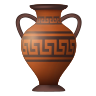
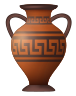
improved card layout; smaller font; more image

diff --git a/public/common.css b/public/common.css
@@ -9,125 +9,145 @@ body {
 
 .card {
 	width: 60mm;
-	line-height: 1.2;
+	line-height: 1.15;
 }
 
 .card .container {
+	position: relative;
 	width: 54mm;
-	height: 86mm;
-	margin: 2mm auto;
-	padding: 0mm 1mm;
+	height: 82mm;
+	margin: 3mm auto;
+	padding: 0mm;
 	border: 0.2mm solid white;
 	border-radius: 2mm;
 	background-image: url("media/background.jpg");
 	background-repeat: repeat;
 	background-size: 20mm 20mm;
-}
-
-.card.tag-spell .container {
-	background-image: url("media/spell.jpg");
-}
-
-.card.tag-item .container {
-	background-image: url("media/item.jpg");
-}
-
-.card .container div {
-	margin: 0.3mm auto;
-	padding: 1mm;
-	border: 0.3mm solid black;
-	background-color: rgba(250, 235, 215, 0.85);
 	overflow: hidden;
-}
-
-.card div.name {
-	height: 6.5mm;
-	border-radius: 5mm;
-	font-family: "Brush Script MT", cursive;
-	font-size: 4.5mm;
-	text-align: center;
-}
-
-.card.tag-artifact .tags {
-	background-color: rgba(250, 250, 250, 0.85);
 }
 
 .card div.picture {
-	height: 29mm;
-	padding: 0mm;
-	border-radius: 4mm;
-	background-color: rgba(0, 0, 0, 0.15);
-	overflow: hidden;
+	width: 54mm;
+	height: 54mm;
 }
 
 .card div.picture img {
 	width: 100%;
 	height: 100%;
 	object-fit: cover;
+	border-radius: 2mm;
 }
 
-.card div.tags {
-	border-radius: 2mm;
-	font-family: Georgia, serif;
-	font-size: 3.5mm;
-	text-align: right;
+.card div.name {
+	position: absolute;
+	top: 2mm;
+	right: 4mm;
+	padding: 1mm 4mm;
+	border: 0.2mm solid gray;
+	border-radius: 1mm;
+	background-color: rgba(250, 235, 215, 0.85);
+	font-family: "Brush Script MT", cursive;
+	font-size: 3mm;
+	text-align: center;
+}
+
+.card div.name::before, .card div.name::after {
+	content: "";
+	position: absolute;
+	width: 2.45mm;
+	top: 0.2mm;
+	bottom: 0.2mm;
+	border-radius: 0.5mm;
+	background: url("media/gem.png") no-repeat;
+	background-size: 5mm 5mm;
+	opacity: 0.6;
+}
+
+.card div.name::before {
+	left: 0mm;
+	background-position: right;
+}
+
+.card div.name::after {
+	right: 0mm;
+	background-position: left;
 }
 
 .card div.stats {
-	border-radius: 2mm;
+	position: absolute;
+	left: 2.5mm;
+	bottom: 28.5mm;
+	padding: 0.2mm 1.5mm;
+	border: 0.2mm solid gray;
+	border-radius: 1mm;
+	background-color: rgba(250, 235, 215, 0.85);
 	font-family: Garamond, serif;
-	font-size: 4.5mm;
+	font-size: 3mm;
 	text-align: center;
 }
 
 .card div.description {
-	height: 26.5mm;
-	border-radius: 3mm;
+	position: absolute;
+	left: 0.5mm;
+	right: 0.5mm;
+	top: 54.3mm;
+	bottom: 3.75mm;
+	padding: 0.5mm 1mm;
+	border: 0.2mm solid gray;
+	border-radius: 2mm;
+	background-color: rgba(250, 235, 215, 0.85);
 	font-family: Arial, sans-serif;
-	font-size: 3.5mm;
+	font-size: 2.5mm;
 }
 
 .card .description br {
 	content: "";
 	display: block;
-	margin-bottom: 1mm;
+	margin-bottom: 0.4mm;
 }
 
 .card .description q {
 	font-style: italic;
 }
 
-.card .stats img {
-	margin: 0mm 1mm;
-}
-
-.card .description img {
-	margin: 0mm;
+.card div.tags {
+	position: absolute;
+	left: 10mm;
+	right: 10mm;
+	bottom: -0.1mm;
+	padding: 0.15mm 2mm;
+	border: 0.2mm solid gray;
+	border-top-left-radius: 1mm;
+	border-top-right-radius: 1mm;
+	background-color: rgba(250, 235, 215, 0.85);
+	font-family: Georgia, serif;
+	font-size: 2.5mm;
+	text-align: center;
 }
 
 .card .stats img, .card .description img {
-	height: 3.5mm;
-	margin-top: -1mm;
+	height: 2.5mm;
+	margin-left: 0.5mm;
+	margin-right: 0.4mm;
+	margin-top: -0.7mm;
 }
 
-.card div.footer {
-	margin: -0.45mm auto;
-	padding: 0mm 5mm;
-	border: 0;
-	background-color: rgba(0, 0, 0, 0);
-	font-family: Arial, sans-serif;
-	font-size: 1.5mm;
+.card.tag-item .container {
+	background-image: url("media/background-item.jpg");
 }
 
-.card .footer span {
-	padding: 0.2mm;
-	background-color: rgba(255, 255, 255, 0.2);
+.card.tag-spell .container {
+	background-image: url("media/background-spell.jpg");
 }
 
-.card span.edition {
-	float: left;
+.card.tag-item div.name::before, .card.tag-item div.name::after {
+	background-image: url("media/gem-item.png");
 }
 
-.card span.url {
-	float: right;
+.card.tag-spell div.name::before, .card.tag-spell div.name::after {
+	background-image: url("media/gem-spell.png");
+}
+
+.card.tag-artifact .tags {
+	background-color: rgba(250, 250, 250, 0.85);
 }

diff --git a/public/common.js b/public/common.js
@@ -23,7 +23,7 @@ function makeStats(d) {
 		arr.push(d.Military + "<img src=\"media/military.png\">")
 	if (d.Faith.length > 0)
 		arr.push(d.Faith + "<img src=\"media/faith.png\">")
-	return "&nbsp;" + arr.join(" &nbsp; ") + "&nbsp;"
+	return "&nbsp;" + arr.join("&nbsp;&nbsp;") + "&nbsp;"
 }
 
 function makeDescription(d) {
@@ -44,57 +44,43 @@ function makeDescription(d) {
 function findCard(data, id) {
 	for (let d of data) {
 		if (d.id == id)
-			return [d];
+			return d;
 	}
 }
 
 function updateCards(data) {
 	d3.selectAll(".card").each(function() {
 		let sel = d3.select(this);
-		sel.data(findCard(data, sel.attr("data-card-id")));
+		let d = findCard(data, sel.attr("data-card-id"));
+		sel.data([d]);
 		sel.attr("class", makeClasses);
 		let cont = 	sel.append("div").classed("container", true);
 
-		cont
-			.append("div")
-			.classed("name", true)
-			.text(d => d.Name)
-
-		cont
-			.append("div")
+		cont.append("div")
 			.classed("picture", true)
 			.append("img")
 			.attr("src", makeImgSrc)
-			.attr("alt", makeImgSrc)
+			.attr("alt", makeImgSrc);
 
-		cont
-			.append("div")
-			.classed("tags", true)
-			.html(makeTags)
+		cont.append("div")
+			.classed("name", true)
+			.text(d => d.Name);
 
-		cont
-			.append("div")
-			.classed("stats", true)
-			.html(makeStats)
+		let stats = makeStats(d);
+		if (stats.indexOf("img") > 0)
+		{
+			cont.append("div")
+				.classed("stats", true)
+				.html(stats);
+		}
 
-		cont
-			.append("div")
+		cont.append("div")
 			.classed("description", true)
-			.html(makeDescription)
+			.html(makeDescription);
 
-		let footer = cont
-			.append("div")
-			.classed("footer", true)
-
-		footer.
-			append("span")
-			.classed("edition", true)
-			.text("1")
-
-		footer.
-			append("span")
-			.classed("url", true)
-			.text("https://garage-trip.cz/cards")
+		cont.append("div")
+			.classed("tags", true)
+			.html(makeTags);
 	});
 }
 
